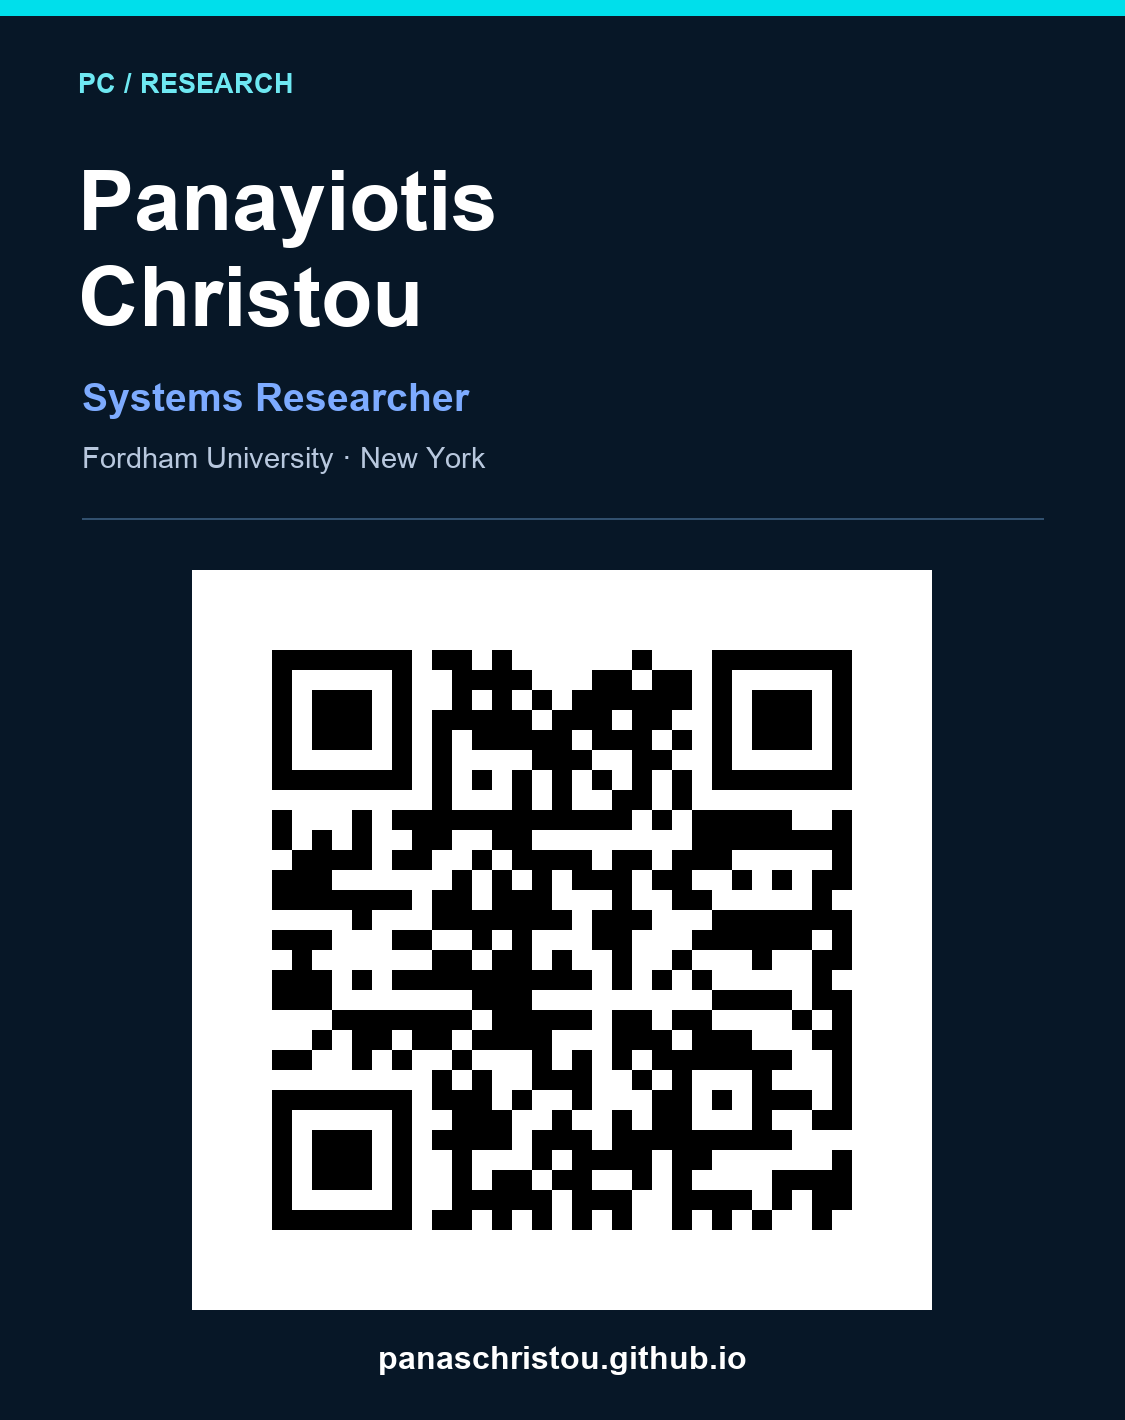
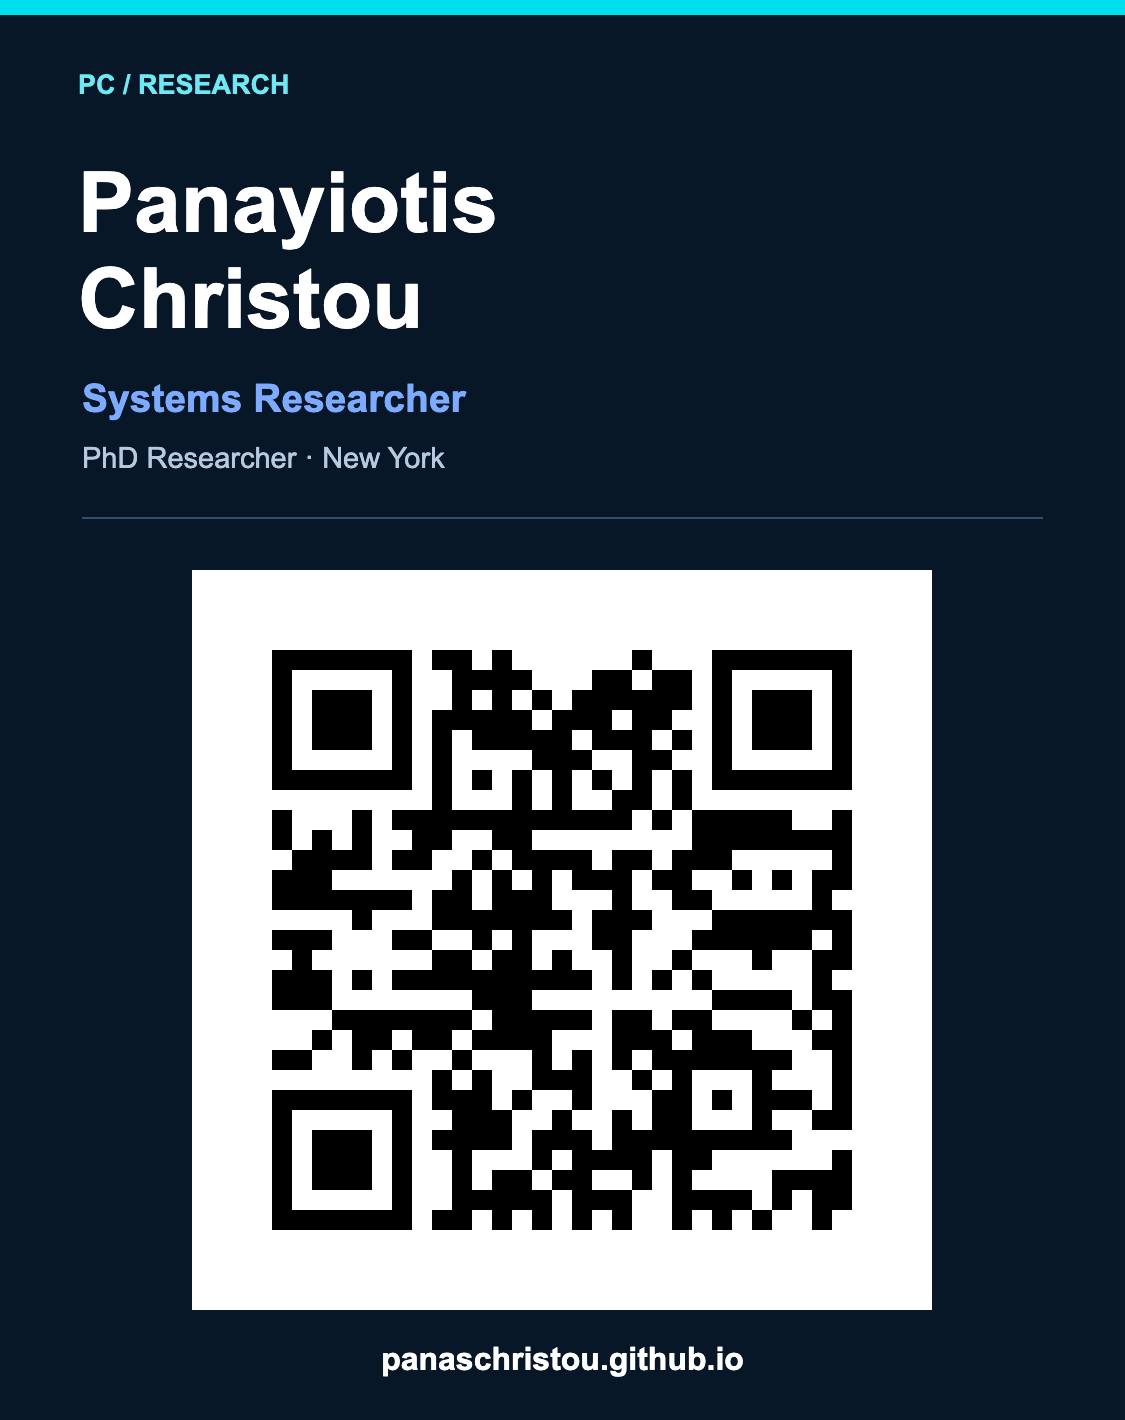
Update PhD Researcher label and add four geometric card design options

diff --git a/card/index.html b/card/index.html
@@ -1,1 +1,1 @@
-<!doctype html><html lang="en"><head><meta charset="utf-8"><meta name="viewport" content="width=device-width, initial-scale=1"><meta name="robots" content="noindex"><meta name="theme-color" content="#071727"><title>Panayiotis Christou · Digital card</title><style>*{box-sizing:border-box}body{margin:0;background:#06131f;color:#f6f8ff;font:16px/1.65 -apple-system,BlinkMacSystemFont,Arial,sans-serif}main{max-width:860px;margin:auto;padding:30px 22px 60px}a{color:#7dccff}header{display:flex;justify-content:space-between;gap:20px;font-size:13px;border-bottom:1px solid #294055;padding-bottom:18px}h1{font-size:32px;letter-spacing:-.04em;line-height:1.2;margin:32px 0 12px}p{color:#b8c8de}.layout{display:grid;grid-template-columns:1fr 1fr;gap:36px;align-items:start;margin-top:28px}.card{width:100%;display:block;border-radius:16px;border:1px solid #294055}.actions{display:flex;flex-direction:column;gap:13px;margin:20px 0}.button{background:#12dbe6;color:#03232b;text-align:center;padding:12px 15px;border-radius:8px;text-decoration:none;font-weight:600}ol{padding-left:22px;color:#cbd9eb}li{margin-bottom:13px}.note{font-size:13px}h2{font-size:23px;line-height:1.3;margin-top:0}a:focus-visible{outline:3px solid #12dbe6;outline-offset:4px}@media(max-width:650px){.layout{grid-template-columns:1fr}.card{max-width:400px;margin:auto}h1{font-size:29px}.instructions{max-width:440px}}</style></head><body><main><header><span>PC / DIGITAL CARD</span><a href="/">Back to my research ↗</a></header><h1>My research, one scan away.</h1><p>A personal card with a QR code that opens my website.</p><div class="layout"><div><a href="research-card.png" aria-label="Open full-size card image"><img class="card" src="research-card.png" alt="Panayiotis Christou, Systems Researcher at Fordham University. QR code links to panaschristou.github.io." width="1125" height="1420"></a><div class="actions"><a class="button" href="research-card.png" download>Download card image</a><a href="website-qr.png" download>Download QR code only ↗</a></div></div><div class="instructions"><h2>Save it to Apple Wallet</h2><p>On iOS 27, a compatible iPhone can create a personal pass from the QR image.</p><ol><li>Open the card image above on your iPhone and save it to Photos. You can also take a screenshot.</li><li>Open the image in Photos and swipe up or tap the Info button.</li><li>If <strong>Add Pass to Wallet</strong> appears, tap it, review the fields, and choose a blue background.</li><li>Use <strong>Panayiotis Christou</strong> for the name and <strong>Systems Researcher</strong> for the role, then save the pass.</li></ol><p class="note">The photo-detection route requires compatible Apple Intelligence hardware and settings. Apple also provides Wallet → + → Create a Pass → Create Pass Manually for a standard pass.</p><p class="note">This download is a card image, not a signed .pkpass. Wallet creates and saves your personal pass on your iPhone; its final layout may differ from this image.</p><a href="https://support.apple.com/en-gb/127821">Apple’s pass-creation instructions ↗</a></div></div></main></body></html>
+<!doctype html><html lang="en"><head><meta charset="utf-8"><meta name="viewport" content="width=device-width,initial-scale=1"><meta name="robots" content="noindex"><meta name="theme-color" content="#071727"><title>Panayiotis Christou · Card designs</title><style>*{box-sizing:border-box}html{scroll-behavior:smooth}body{margin:0;background:#06131f;color:#f6f8ff;font:16px/1.6 -apple-system,BlinkMacSystemFont,Arial,sans-serif}main{max-width:1100px;margin:auto;padding:30px 24px 50px}a{color:#9dcbff}header{display:flex;justify-content:space-between;gap:20px;font-size:12px;letter-spacing:.04em;padding-bottom:20px;border-bottom:1px solid #294055}h1{font-size:42px;line-height:1.1;letter-spacing:-.045em;margin:35px 0 16px}p{color:#afc1d8}nav{display:flex;flex-wrap:wrap;gap:10px;margin:25px 0 35px}nav a{border:1px solid #3d5672;padding:9px 16px;text-decoration:none;border-radius:5px;font-size:13px}.grid{display:grid;grid-template-columns:1fr 1fr;gap:45px 30px}.option{min-width:0;scroll-margin-top:20px}.option-head{margin-bottom:15px}.option-head span{font-size:11px;letter-spacing:.08em;color:#7dabff}.option h2{font-size:25px;margin:3px 0 0;letter-spacing:-.025em}.option img{width:100%;height:auto;display:block;border-radius:12px;border:1px solid #294055}.option p{font-size:14px;margin:15px 0}.actions{display:flex;align-items:center;justify-content:space-between;gap:15px;font-size:13px}.button{background:#7dabff;color:#06131f;padding:11px 16px;border-radius:5px;font-weight:700;text-decoration:none}details{margin-top:40px;border-top:1px solid #294055;padding-top:22px}summary{cursor:pointer;font-weight:600}details p,details li{font-size:14px;max-width:750px}li{margin:12px 0;color:#afc1d8}.note{font-size:12px;max-width:800px;margin-top:30px}a:focus-visible,summary:focus-visible{outline:3px solid #7dabff;outline-offset:4px}@media(max-width:620px){main{padding:22px 20px 40px}h1{font-size:34px}.grid{grid-template-columns:1fr;gap:35px}.actions{font-size:12px}header{font-size:10px}nav{gap:7px}nav a{padding:8px 12px;font-size:12px}}@media(prefers-reduced-motion:reduce){html{scroll-behavior:auto}}</style></head><body><main><header><span>PC / DIGITAL CARDS</span><a href="/">Back to my research ↗</a></header><h1>Choose your card.</h1><p>Four designs in blue, navy, and white. Every card says “PhD Researcher · New York” and links to the same website.</p><nav aria-label="Card designs"><a href="#classic">01 Classic Navy</a><a href="#orbit">02 Orbit</a><a href="#blueprint">03 Blueprint</a><a href="#fold">04 Blue & White</a></nav><div class="grid"><article class="option" id="classic"><div class="option-head"><span>01 / Current design</span><h2>Classic Navy</h2></div><a href="classic.png?v=2" aria-label="View Classic Navy full size"><img src="classic.png?v=2" alt="Classic Navy digital card for Panayiotis Christou, Systems Researcher. PhD Researcher, New York. QR code to panaschristou.github.io." width="1125" height="1420"></a><p>The original navy card, with the updated PhD Researcher line.</p><div class="actions"><a class="button" href="classic.png?v=2" download="Panayiotis-Christou-classic.png">Download card ↓</a><a href="classic.png?v=2">View full size ↗</a></div></article><article class="option" id="orbit"><div class="option-head"><span>02 / Circles + white space</span><h2>Orbit</h2></div><a href="orbit.png?v=2" aria-label="View Orbit full size"><img src="orbit.png?v=2" alt="Orbit digital card for Panayiotis Christou, Systems Researcher. PhD Researcher, New York. QR code to panaschristou.github.io." width="1125" height="1420"></a><p>Oversized blue rings and a white lower panel.</p><div class="actions"><a class="button" href="orbit.png?v=2" download="Panayiotis-Christou-orbit.png">Download card ↓</a><a href="orbit.png?v=2">View full size ↗</a></div></article><article class="option" id="blueprint"><div class="option-head"><span>03 / Technical + geometric</span><h2>Blueprint</h2></div><a href="blueprint.png?v=2" aria-label="View Blueprint full size"><img src="blueprint.png?v=2" alt="Blueprint digital card for Panayiotis Christou, Systems Researcher. PhD Researcher, New York. QR code to panaschristou.github.io." width="1125" height="1420"></a><p>A fine grid, construction lines, and geometric markers.</p><div class="actions"><a class="button" href="blueprint.png?v=2" download="Panayiotis-Christou-blueprint.png">Download card ↓</a><a href="blueprint.png?v=2">View full size ↗</a></div></article><article class="option" id="fold"><div class="option-head"><span>04 / Clean + angular</span><h2>Blue & White</h2></div><a href="fold.png?v=2" aria-label="View Blue & White full size"><img src="fold.png?v=2" alt="Blue & White digital card for Panayiotis Christou, Systems Researcher. PhD Researcher, New York. QR code to panaschristou.github.io." width="1125" height="1420"></a><p>White typography space with a blue-and-navy diagonal split.</p><div class="actions"><a class="button" href="fold.png?v=2" download="Panayiotis-Christou-fold.png">Download card ↓</a><a href="fold.png?v=2">View full size ↗</a></div></article></div><details><summary>How to create a personal Apple Wallet pass</summary><ol><li>Save your preferred card image to Photos on your iPhone.</li><li>Open it in Photos and swipe up or tap Info.</li><li>If Add Pass to Wallet appears, tap it, review the fields and choose your preferred blue background.</li><li>Use Panayiotis Christou for the name, Systems Researcher for the role, and PhD Researcher · New York for the additional detail, then save.</li></ol><p>Photo detection requires compatible Apple Intelligence hardware and settings. Apple also provides Wallet → + → Create a Pass → Create Pass Manually for a standard pass.</p><p><a href="https://support.apple.com/en-gb/127821">Apple’s instructions ↗</a> · <a href="website-qr.png" download>Download QR code only ↓</a></p></details><p class="note">These are downloadable card images. Apple Wallet creates your personal pass on your iPhone and controls its layout; custom image patterns may not carry over to the native pass.</p></main></body></html>
